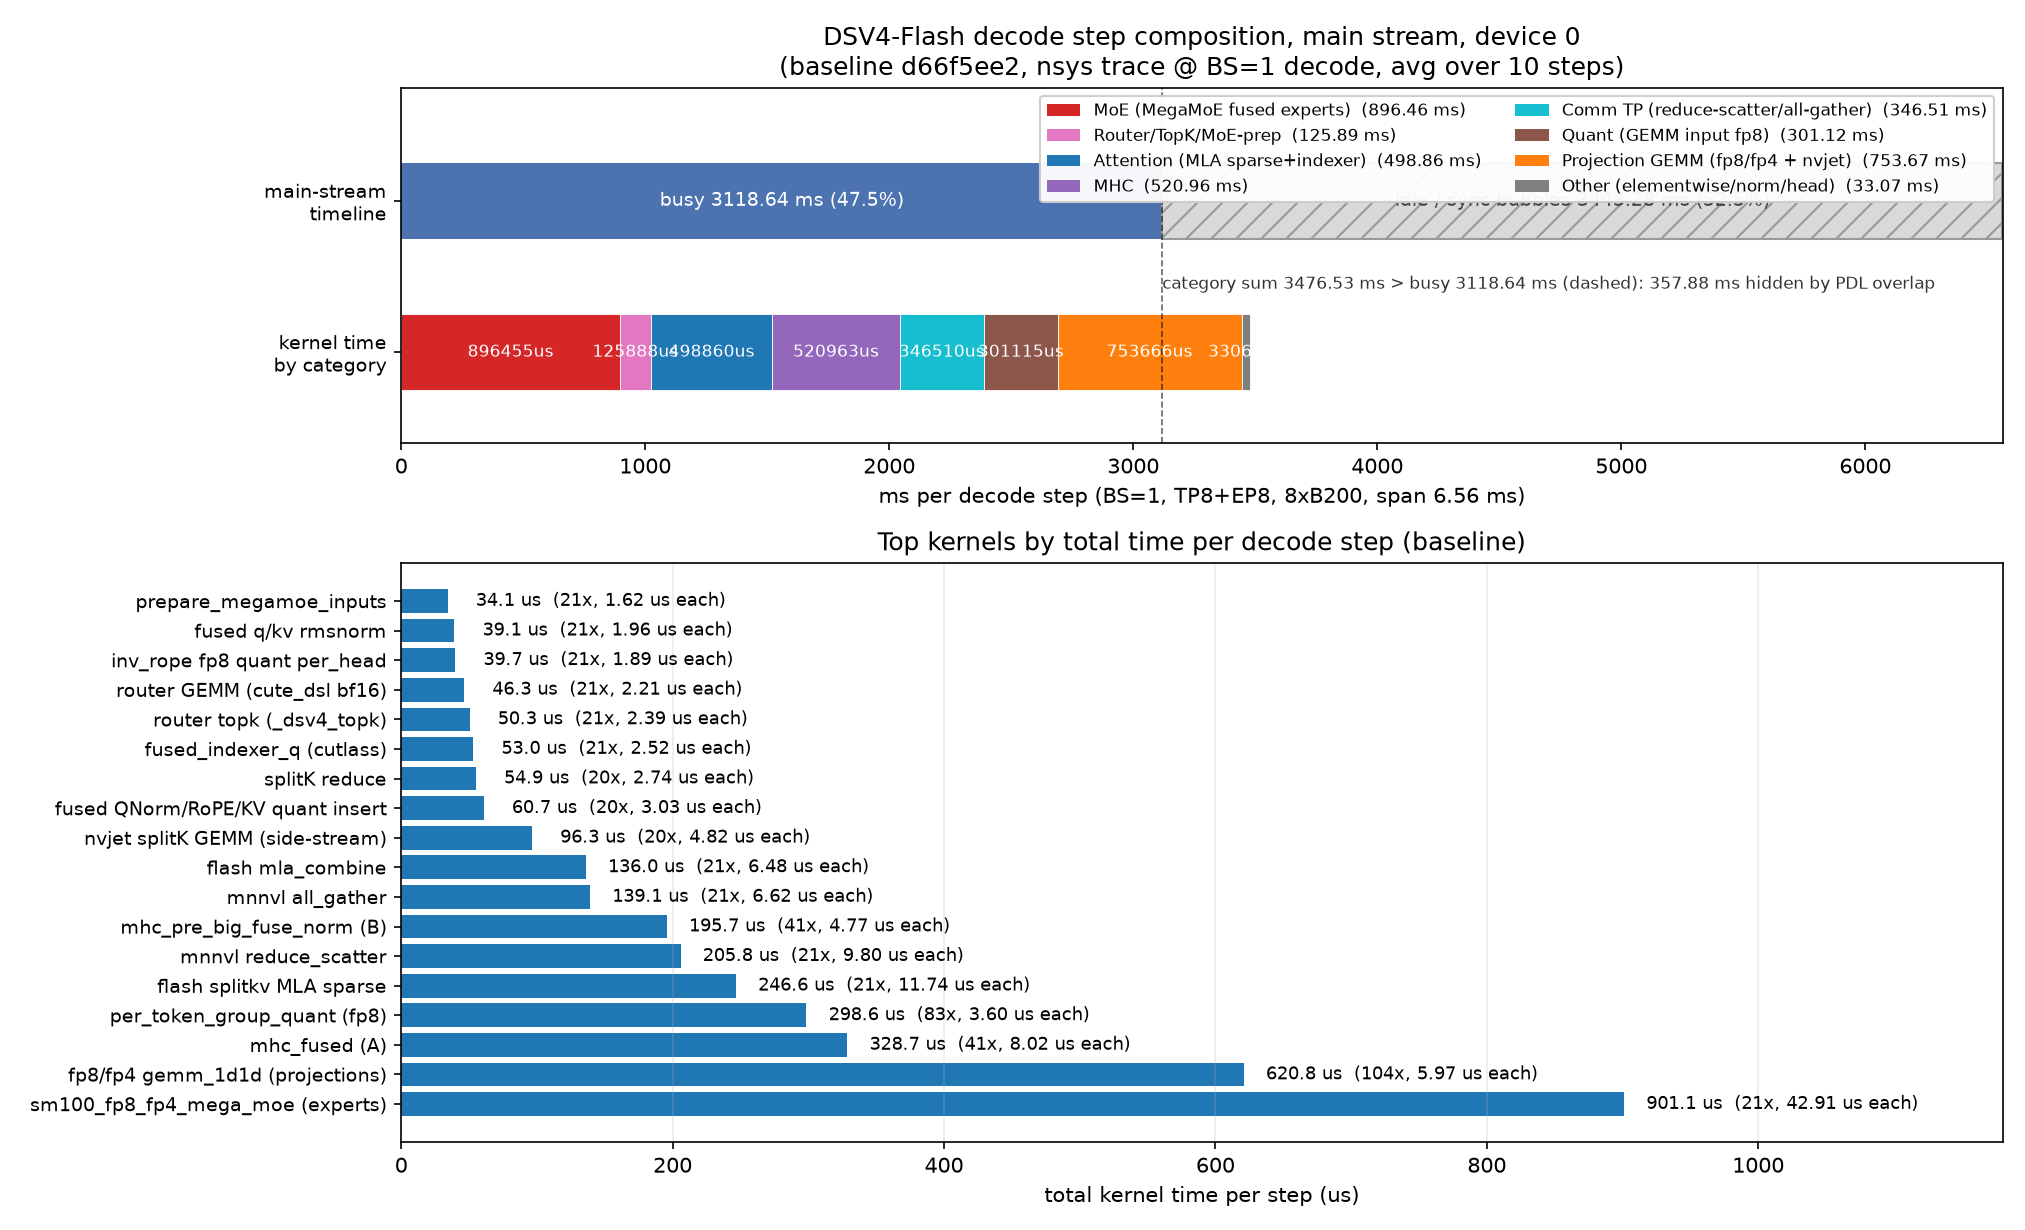
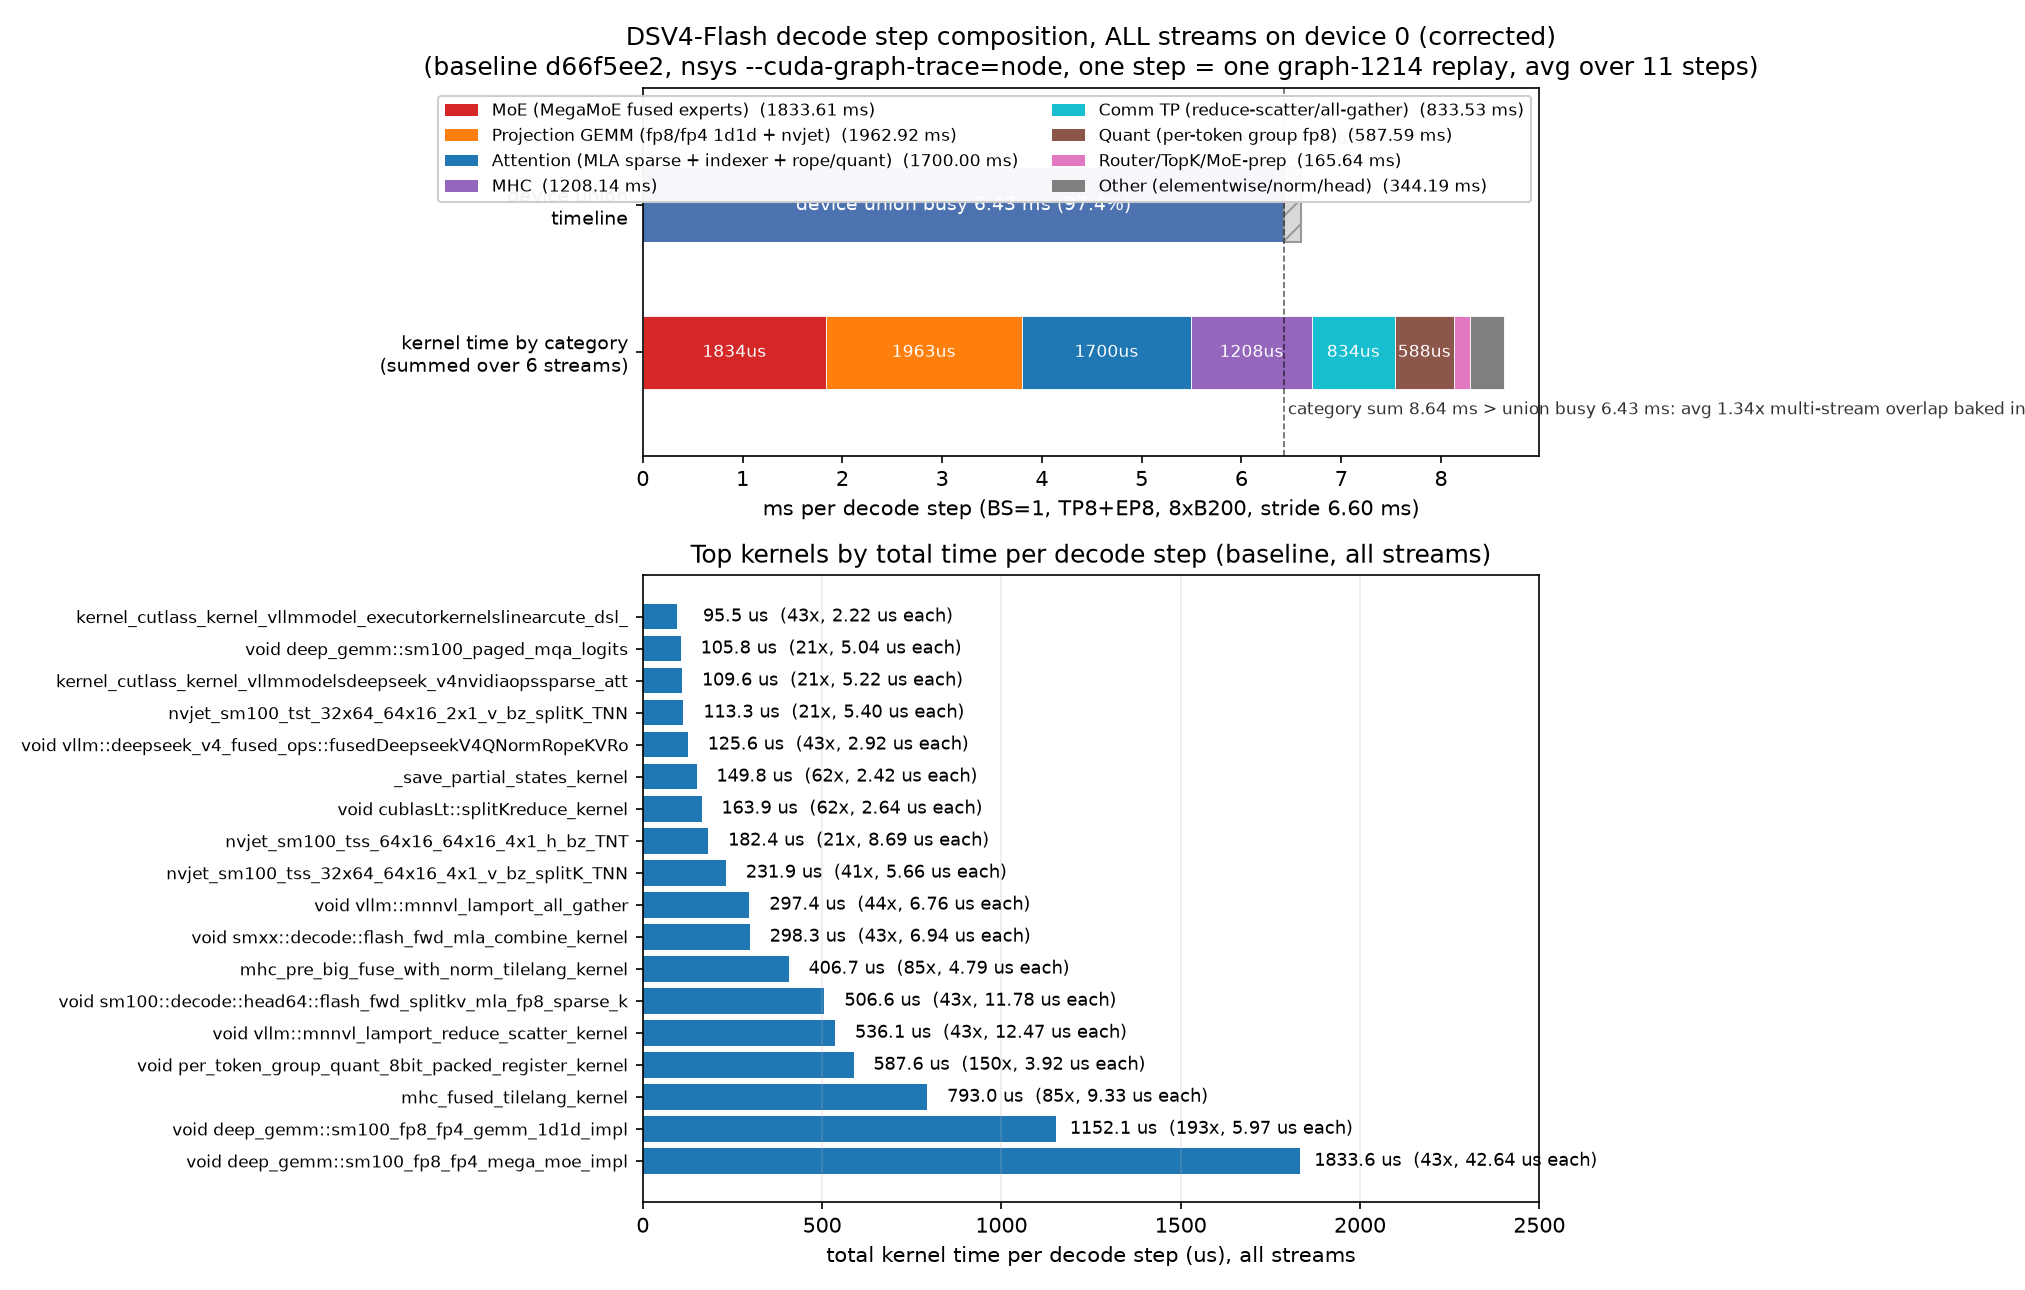
docs: correct decode-step breakdown to device-union view
The single-compute-stream timeline analysis (47.5% busy, ~20x130us
'cross-rank sync bubbles') under-counted intra-graph overlap: the
gaps on one compute stream are covered by the other compute stream
running the adjacent layer's full pipeline. Device-union busy over a
decode step (single graph-1214 replay, 6 streams, ~1539 kernels) is
97.4%; the remaining seams are ~20-34us inter-layer junctions. All 8
ranks are 93-98% busy during the 'bubble' windows -- no sync stall.

Regenerates the breakdown figure/JSON with per-category kernel time
summed across all streams plus the union timeline, and rewrites the
blog section accordingly (43 MoE layers, mHC pair ~85x/step,
1.21 ms/step = 14% of on-device kernel time).

diff --git a/DSV4_MHC_NT512_GEOMETRY_PR.md b/DSV4_MHC_NT512_GEOMETRY_PR.md
@@ -17,8 +17,9 @@ sum, and the per-thread FMA into the pre-norm GEMM accumulators all become a
 single flat pass, and the shared-memory cross-warp reduction keeps its exact
 shape (the reduction tree and therefore the numerics are unchanged).
 
-At batch size 1 the mHC boundary pair runs 40 times per decode step and sits
-directly on the dependency chain. On 8x B200 with DeepSeek-V4-Flash-0731 the
+At batch size 1 the mHC boundary pair runs ~85 times per decode step
+(2 boundaries x 43 MoE layers) and sits directly on the dependency chain.
+On 8x B200 with DeepSeek-V4-Flash-0731 the
 change improves median decode TPOT by 1.08% and concurrency-8 output
 throughput by 2.31%. GSM8K accuracy is unchanged within measurement noise.
 
@@ -28,10 +29,13 @@ At small batch the fused mHC kernel is latency bound, not throughput bound:
 per launch it moves only `num_tokens x hc_mult x hidden_size` activations but
 reads a fresh 1.5 MiB fp32 weight tile (the MoE expert-weight traffic between
 two visits evicts it from L2 every time). An nsys decomposition of the decode
-step at BS=1 — 21 MoE layers, 588 kernels on the main stream, 47.5% busy —
-shows the mHC pair (`mhc_fused_tilelang` +
-`mhc_pre_big_fuse_with_norm_tilelang`) spans ~10.4 us per boundary, ~14% of
-the step with launch gaps, launched back to back under PDL. The full
+step at BS=1 — one decode step is a single CUDA-graph replay, ~1540 kernels
+on device 0 across 6 captured streams, with 43 MoE layers alternating between
+two compute streams and projection GEMMs on side streams, device-union busy
+97.4% — shows the mHC pair (`mhc_fused_tilelang` +
+`mhc_pre_big_fuse_with_norm_tilelang`) accounts for 1.21 ms of kernel time
+per step, ~14% of the on-device kernel total (~18% of the 6.60 ms stride),
+launched back to back under PDL. The full
 operator-level breakdown is in
 [DSV4_MHC_NT512_STEP_BREAKDOWN.png](DSV4_MHC_NT512_STEP_BREAKDOWN.png)
 (data: [DSV4_MHC_NT512_STEP_BREAKDOWN.json](DSV4_MHC_NT512_STEP_BREAKDOWN.json)).
